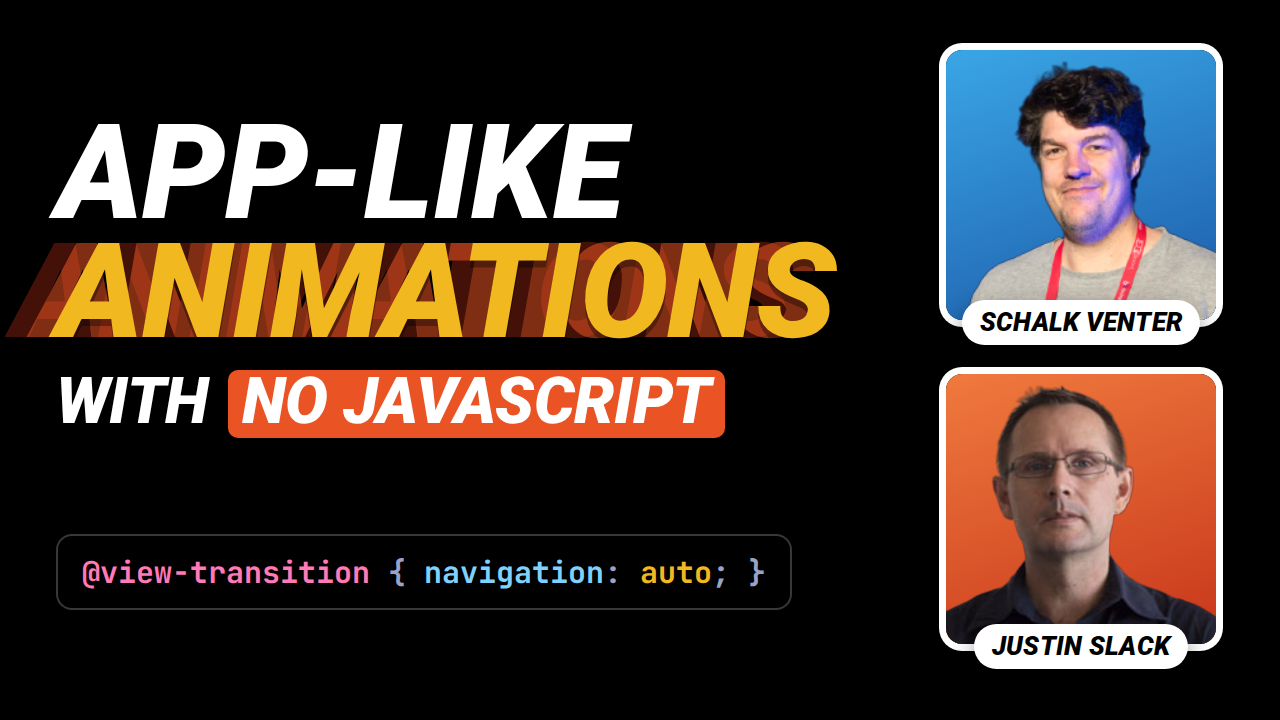
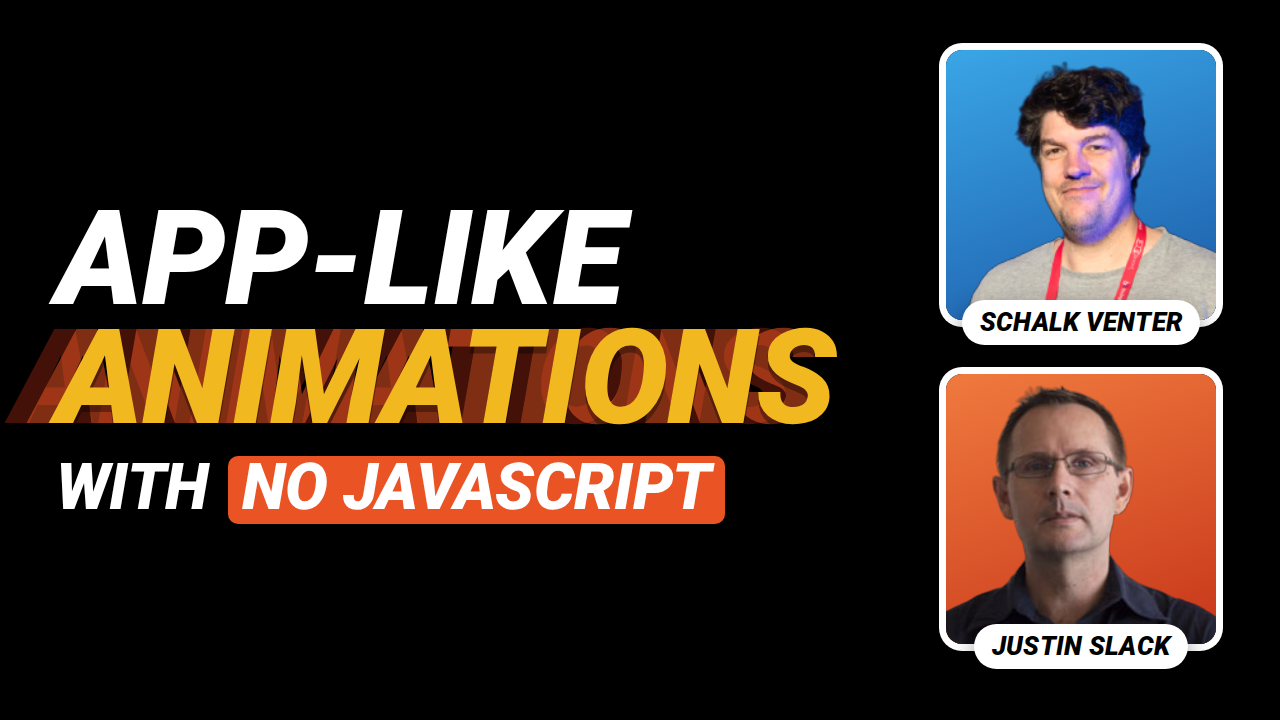
Thumbnail: remove code snippet
Also drops the now-unused JetBrains Mono font files.

Claude-Session: https://claude.ai/code/session_0164t38uxhJ4Eb21npfFbzTE

Changed region(s): [[0.0, 0.1528, 0.6562, 0.7333], [0.0625, 0.7639, 0.4688, 0.825], [0.5, 0.7639, 0.5938, 0.825]]

diff --git a/thumbnails/spa-without-javascript/thumbnail.html b/thumbnails/spa-without-javascript/thumbnail.html
@@ -7,8 +7,6 @@
   @font-face { font-family: "Roboto"; font-weight: 900; font-style: italic; src: url("assets/fonts/roboto-latin-900-italic.woff2") format("woff2"); }
   @font-face { font-family: "Roboto"; font-weight: 900; font-style: normal; src: url("assets/fonts/roboto-latin-900-normal.woff2") format("woff2"); }
   @font-face { font-family: "Roboto"; font-weight: 700; font-style: normal; src: url("assets/fonts/roboto-latin-700-normal.woff2") format("woff2"); }
-  @font-face { font-family: "JetBrains Mono"; font-weight: 700; src: url("assets/fonts/jetbrains-mono-latin-700-normal.woff2") format("woff2"); }
-  @font-face { font-family: "JetBrains Mono"; font-weight: 500; src: url("assets/fonts/jetbrains-mono-latin-500-normal.woff2") format("woff2"); }
 
   :root {
     /* FEDSA mountain palette */
@@ -97,7 +95,6 @@
     flex-direction: column;
     align-items: flex-start;
     justify-content: center;
-    gap: 96px;
   }
 
   .headline {
@@ -147,24 +144,6 @@
     border-radius: 10px;
     text-shadow: none;
   }
-
-  .code {
-    display: inline-flex;
-    align-items: center;
-    padding: 16px 24px;
-    border-radius: 16px;
-    background: #000;
-    border: 2px solid rgba(255,255,255,.22);
-    box-shadow: 0 16px 36px rgba(0,0,0,.5);
-    font-family: "JetBrains Mono", monospace;
-    font-weight: 700;
-    font-size: 30px;
-    white-space: nowrap;
-  }
-  .code .at   { color: #ff7ab6; }
-  .code .prop { color: #7fd1ff; }
-  .code .val  { color: var(--yellow); }
-  .code .p    { color: #9aa3c7; }
 </style>
 </head>
 <body>
@@ -188,10 +167,6 @@
         </span>
         <span class="l3">With <span class="no">No JavaScript</span></span>
       </h1>
-
-      <div class="code">
-        <span><span class="at">@view-transition</span> <span class="p">{</span> <span class="prop">navigation</span><span class="p">:</span> <span class="val">auto</span><span class="p">; }</span></span>
-      </div>
     </div>
   </div>
 </body>

diff --git a/thumbnails/spa-without-javascript/README.md b/thumbnails/spa-without-javascript/README.md
@@ -9,7 +9,7 @@ Schalk Venter and Justin Slack from FEDSA. Title on the thumbnail:
 - `render.mjs` — renders the HTML to `thumbnail.png` with Playwright
   (`npm i playwright && node render.mjs`).
 - `assets/` — background-removed portraits and self-hosted fonts
-  (Roboto, JetBrains Mono).
+  (Roboto).
 
 Photo sources: Schalk's GitHub avatar and Justin's Sessionize speaker photo,
 cut out with `rembg` (`birefnet-portrait` model).
